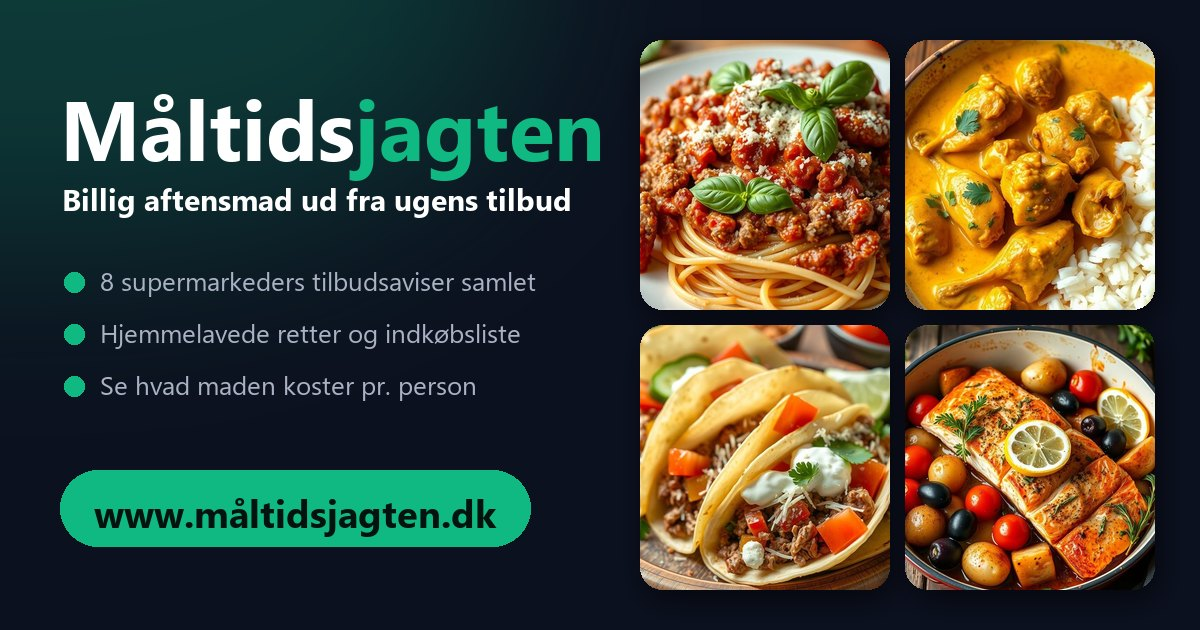
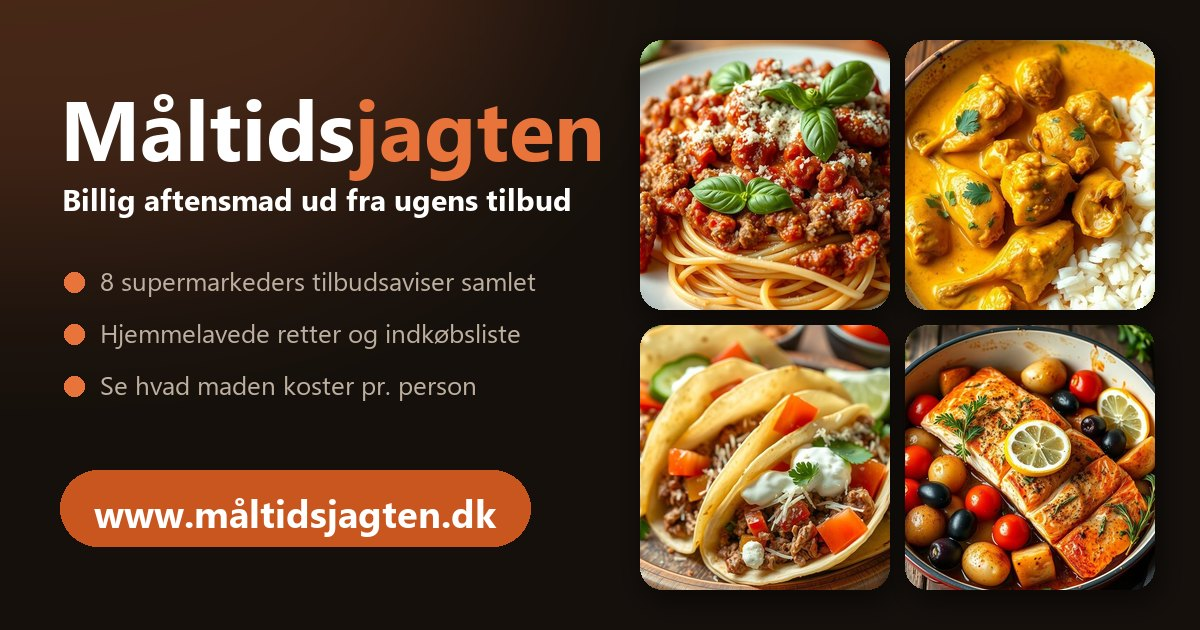
Nyt tema: varm moerk med tomat-orange (knapper, faner) og groen kun til billigt/tilbud; chat, login, admin, privatlivspolitik og delingsbillede i samme farver

diff --git a/index.html b/index.html
@@ -3,6 +3,7 @@
 <head>
 <meta charset="UTF-8">
 <meta name="viewport" content="width=device-width, initial-scale=1.0">
+<meta name="theme-color" content="#15100C">
 <title>Måltidsjagten — ugens retter ud fra tilbudsaviserne</title>
 <meta name="description" content="Måltidsjagten finder ugens bedste tilbud i Netto, MENY, Bilka, REMA 1000, Kvickly, SuperBrugsen, Lidl og 365discount og foreslår hjemmelavede retter, indkøbsliste og ugeplan.">
 <meta property="og:type" content="website">
@@ -16,14 +17,17 @@
 <link href="https://fonts.googleapis.com/css2?family=Inter:wght@300;400;500;600;700&display=swap" rel="stylesheet">
 <style>
 :root {
-  --bg: #0C1120;
-  --surface: #111827;
-  --surface-2: #1A2438;
-  --border: rgba(148,163,184,0.14);
+  --bg: #15100C;
+  --surface: #1F1813;
+  --surface-2: #2B211A;
+  --border: rgba(255,226,190,0.13);
   --text-1: #FFFFFF;
-  --text-2: #D4D4D4;
-  --text-3: #A0A0A0;
-  --emerald: #10B981;
+  --text-2: #E8DFD4;
+  --text-3: #B8AA9A;
+  --accent: #E8743B;        /* hovedfarve: tomat-orange (knapper, faner, markeringer) */
+  --accent-fill: #C9561E;   /* udfyldte knapper med hvid tekst (kontrast ≥ 4,5) */
+  --accent-dk: #AE4818;
+  --emerald: #10B981;       /* kun til 'billigt'/'på tilbud' */
   --emerald-dk: #059669;
   --amber: #F59E0B;
   --red: #EF4444;
@@ -39,12 +43,12 @@ button { font: inherit; cursor: pointer; }
 
 header.top { display: flex; align-items: center; justify-content: space-between; gap: 16px; flex-wrap: wrap; margin-bottom: 20px; }
 header.top h1 { font-size: 24px; font-weight: 700; }
-header.top h1 span { color: var(--emerald); }
+header.top h1 span { color: var(--accent); }
 .aviser { font-size: 13px; color: var(--text-3); }
 
 nav.trin { display: flex; gap: 8px; margin-bottom: 24px; flex-wrap: wrap; }
 nav.trin button { background: var(--surface); border: 1px solid var(--border); color: var(--text-3); padding: 10px 16px; border-radius: 999px; font-weight: 500; }
-nav.trin button.aktiv { background: var(--emerald); border-color: var(--emerald); color: #fff; }
+nav.trin button.aktiv { background: var(--accent-fill); border-color: var(--accent-fill); color: #fff; }
 nav.trin button:disabled { opacity: .4; cursor: not-allowed; }
 .nav-hoejre { margin-left: auto; display: flex; align-items: center; gap: 10px; }
 .sky-status { font-size: 12px; color: var(--text-3); }
@@ -63,17 +67,17 @@ nav.trin button.slet-valg:hover { border-color: #f87171; color: #fca5a5; }
 
 .filtre { display: flex; gap: 6px; flex-wrap: wrap; margin-bottom: 16px; }
 .chip { background: var(--surface); border: 1px solid var(--border); color: var(--text-2); padding: 6px 12px; border-radius: 999px; font-size: 13px; }
-.chip.aktiv { border-color: var(--emerald); color: var(--emerald); }
+.chip.aktiv { border-color: var(--accent); color: var(--accent); }
 
 .grid { display: grid; grid-template-columns: repeat(auto-fill, minmax(300px, 1fr)); gap: 14px; }
 .ret { background: var(--surface); border: 1px solid var(--border); border-radius: var(--radius); padding: 16px; cursor: pointer; transition: border-color .15s, transform .15s; position: relative; }
 .ret:hover { transform: translateY(-2px); }
-.bil { margin: -16px -16px 12px; aspect-ratio: 16 / 10; overflow: hidden; border-radius: var(--radius) var(--radius) 0 0; background: linear-gradient(135deg, #1A2438, #0C1120); position: relative; display: grid; place-items: center; }
+.bil { margin: -16px -16px 12px; aspect-ratio: 16 / 10; overflow: hidden; border-radius: var(--radius) var(--radius) 0 0; background: linear-gradient(135deg, var(--surface-2), var(--bg)); position: relative; display: grid; place-items: center; }
 .bil img { width: 100%; height: 100%; object-fit: cover; display: block; }
 .bil-ikon { font-size: 44px; opacity: .55; }
 .bil-maerke { position: absolute; left: 8px; bottom: 8px; font-size: 10px; letter-spacing: .03em; background: rgba(0,0,0,.55); color: #E5E7EB; padding: 2px 7px; border-radius: 6px; }
-.ret.valgt { border-color: var(--emerald); box-shadow: 0 0 0 1px var(--emerald) inset; }
-.ret.valgt::after { content: '✓'; position: absolute; top: 12px; right: 14px; background: var(--emerald); color: #fff; width: 24px; height: 24px; border-radius: 50%; display: grid; place-items: center; font-size: 14px; font-weight: 700; }
+.ret.valgt { border-color: var(--accent); box-shadow: 0 0 0 1px var(--accent) inset; }
+.ret.valgt::after { content: '✓'; position: absolute; top: 12px; right: 14px; background: var(--accent-fill); color: #fff; width: 24px; height: 24px; border-radius: 50%; display: grid; place-items: center; font-size: 14px; font-weight: 700; }
 .ret h3 { font-size: 16px; margin-bottom: 4px; padding-right: 30px; }
 .ret p { margin: 0 0 10px; font-size: 14px; color: var(--text-3); }
 .meta { display: flex; gap: 8px; flex-wrap: wrap; font-size: 12px; }
@@ -121,7 +125,7 @@ nav.trin button.slet-valg:hover { border-color: #f87171; color: #fca5a5; }
 .login-faner { display: flex; gap: 8px; margin: 16px 0; }
 #login-form { display: flex; flex-direction: column; gap: 10px; }
 #login-form input { background: var(--surface-2); border: 1px solid var(--border); border-radius: 10px; padding: 12px 14px; color: var(--text-1); font: inherit; font-size: 16px; }
-#login-form input:focus { outline: none; border-color: var(--emerald); }
+#login-form input:focus { outline: none; border-color: var(--accent); }
 #login-form .knap { margin-top: 4px; }
 #login-besked { min-height: 1.2em; font-size: 14px; margin: 12px 0 0; }
 #login-besked.ok { color: var(--emerald); }
@@ -138,10 +142,10 @@ button.link { background: none; border: 0; color: var(--text-3); text-decoration
 .ret.bruger-rest { border-color: rgba(245,158,11,.55); }
 .chip.rest-chip { border-color: rgba(245,158,11,.6); color: var(--amber); }
 .chip.rest-chip.aktiv { background: rgba(245,158,11,.15); }
-.hero { position: relative; border-radius: var(--radius); overflow: hidden; height: 280px; margin-bottom: 20px; background: #0C1120; border: 1px solid var(--border); }
+.hero { position: relative; border-radius: var(--radius); overflow: hidden; height: 280px; margin-bottom: 20px; background: var(--bg); border: 1px solid var(--border); }
 .hero-mosaik { position: absolute; inset: 0; display: grid; grid-template-columns: 1.15fr 1fr 1fr 1fr; gap: 3px; }
 .hero-mosaik img { width: 100%; height: 100%; object-fit: cover; display: block; }
-.hero::after { content: ''; position: absolute; inset: 0; background: linear-gradient(90deg, rgba(12,17,32,.96) 0%, rgba(12,17,32,.88) 32%, rgba(12,17,32,.35) 62%, rgba(12,17,32,0) 85%); }
+.hero::after { content: ''; position: absolute; inset: 0; background: linear-gradient(90deg, rgba(21,16,12,.96) 0%, rgba(21,16,12,.88) 32%, rgba(21,16,12,.35) 62%, rgba(21,16,12,0) 85%); }
 .hero-tekst { position: absolute; z-index: 1; left: 28px; top: 50%; transform: translateY(-50%); max-width: 520px; }
 .hero-tekst h2 { font-size: 30px; line-height: 1.15; margin-bottom: 10px; }
 .hero-tekst p { margin: 0; font-size: 16px; color: #E5E7EB; }
@@ -152,30 +156,30 @@ button.link { background: none; border: 0; color: var(--text-3); text-decoration
 .niveauer { display: grid; grid-template-columns: repeat(auto-fit, minmax(190px, 1fr)); gap: 10px; margin-bottom: 14px; }
 .niveau { background: var(--surface); border: 2px solid var(--border); border-radius: 12px; padding: 12px 14px; text-align: left; color: var(--text-3); display: grid; grid-template-columns: auto 1fr; column-gap: 10px; align-items: center; }
 .ikon-svg { width: 1.15em; height: 1.15em; vertical-align: -0.2em; flex: none; }
-.niveau .ikon { display: grid; place-items: center; width: 44px; height: 44px; border-radius: 50%; background: rgba(16,185,129,.16); color: var(--emerald); font-size: 22px; }
+.niveau .ikon { display: grid; place-items: center; width: 44px; height: 44px; border-radius: 50%; background: rgba(232,116,59,.17); color: var(--accent); font-size: 22px; }
 .niveau .ikon .ikon-svg { width: 24px; height: 24px; vertical-align: 0; }
 .koek-bil { width: 22px; height: 22px; border-radius: 50%; object-fit: cover; vertical-align: middle; }
 .koek-bil.lille { width: 18px; height: 18px; margin: -2px 4px -2px -3px; }
 .chip.koekken-knap { display: inline-flex; align-items: center; gap: 9px; padding: 5px 14px 5px 5px; font-size: 14px; font-weight: 500; transition: border-color .15s, background .15s, transform .15s; }
 .chip.koekken-knap .koek-bil { width: 34px; height: 34px; border: 2px solid var(--border); margin: 0; flex: none; }
 .chip.koekken-knap small { margin-left: 0; }
-.chip.koekken-knap:hover { border-color: rgba(16,185,129,.6); transform: translateY(-1px); }
-.chip.koekken-knap.aktiv { background: rgba(16,185,129,.12); border-color: var(--emerald); }
-.chip.koekken-knap.aktiv .koek-bil { border-color: var(--emerald); }
+.chip.koekken-knap:hover { border-color: rgba(232,116,59,.6); transform: translateY(-1px); }
+.chip.koekken-knap.aktiv { background: rgba(232,116,59,.13); border-color: var(--accent); }
+.chip.koekken-knap.aktiv .koek-bil { border-color: var(--accent); }
 .niveau { position: relative; overflow: hidden; isolation: isolate; }
-.niveau::before { content: ''; position: absolute; inset: 0; z-index: -1; background: linear-gradient(90deg, rgba(19,28,46,.95) 0%, rgba(19,28,46,.78) 55%, rgba(19,28,46,.5) 100%), var(--bg) center / cover; transition: transform .3s; }
+.niveau::before { content: ''; position: absolute; inset: 0; z-index: -1; background: linear-gradient(90deg, rgba(31,24,19,.95) 0%, rgba(31,24,19,.78) 55%, rgba(31,24,19,.5) 100%), var(--bg) center / cover; transition: transform .3s; }
 .niveau:hover::before { transform: scale(1.05); }
 .niveau .ikon { grid-row: span 2; font-size: 26px; }
 .niveau strong { color: var(--text-1); font-size: 15px; }
 .niveau small { font-size: 12px; }
-.niveau.aktiv { border-color: var(--emerald); background: var(--surface-2); }
+.niveau.aktiv { border-color: var(--accent); background: var(--surface-2); }
 .tilbudsliste { margin-top: 10px; font-size: 12px; color: var(--text-3); }
 .tilbudsliste b { color: var(--emerald); font-weight: 600; }
 
-.bund { position: fixed; left: 0; right: 0; bottom: 0; background: rgba(12,17,32,.95); backdrop-filter: blur(8px); border-top: 1px solid var(--border); padding: 14px 20px; }
+.bund { position: fixed; left: 0; right: 0; bottom: 0; background: rgba(21,16,12,.95); backdrop-filter: blur(8px); border-top: 1px solid var(--border); padding: 14px 20px; }
 .bund .wrap { padding: 0; display: flex; justify-content: space-between; align-items: center; gap: 12px; }
-.knap { background: var(--emerald); color: #fff; border: 0; padding: 12px 20px; border-radius: 10px; font-weight: 600; }
-.knap:hover { background: var(--emerald-dk); }
+.knap { background: var(--accent-fill); color: #fff; border: 0; padding: 12px 20px; border-radius: 10px; font-weight: 600; }
+.knap:hover { background: var(--accent-dk); }
 .knap:disabled { opacity: .4; cursor: not-allowed; }
 .knap.sekundaer { background: var(--surface-2); color: var(--text-1); }
 
@@ -183,14 +187,14 @@ button.link { background: none; border: 0; color: var(--text-3); text-decoration
 .panel h2 { font-size: 17px; margin-bottom: 12px; }
 .valg { display: flex; gap: 10px; flex-wrap: wrap; align-items: center; }
 .butikvalg { flex: 1; min-width: 200px; background: var(--surface-2); border: 2px solid transparent; border-radius: 12px; padding: 14px; text-align: left; color: var(--text-2); }
-.butikvalg.aktiv { border-color: var(--emerald); }
+.butikvalg.aktiv { border-color: var(--accent); }
 .butikvalg strong { display: block; color: var(--text-1); font-size: 16px; }
 .personer { display: flex; align-items: center; gap: 8px; }
 .personer button { width: 34px; height: 34px; border-radius: 8px; border: 1px solid var(--border); background: var(--surface-2); color: var(--text-1); }
 
 .vare { display: flex; gap: 12px; align-items: flex-start; padding: 10px 0; border-bottom: 1px solid var(--border); }
 .vare:last-child { border-bottom: 0; }
-.vare input { margin-top: 4px; width: 18px; height: 18px; accent-color: var(--emerald); flex-shrink: 0; }
+.vare input { margin-top: 4px; width: 18px; height: 18px; accent-color: var(--accent); flex-shrink: 0; }
 .vare img { width: 52px; height: 52px; object-fit: contain; background: #fff; border-radius: 8px; flex-shrink: 0; }
 .vare .tekst { flex: 1; }
 .vare .navn { color: var(--text-1); font-weight: 500; }
@@ -201,7 +205,7 @@ button.link { background: none; border: 0; color: var(--text-3); text-decoration
 .dag { background: var(--surface); border: 1px solid var(--border); border-radius: var(--radius); margin-bottom: 12px; overflow: hidden; }
 .dag summary { list-style: none; padding: 16px 18px; cursor: pointer; display: flex; justify-content: space-between; align-items: center; gap: 12px; }
 .dag summary::-webkit-details-marker { display: none; }
-.dag .dagnavn { font-size: 12px; text-transform: uppercase; letter-spacing: .08em; color: var(--emerald); font-weight: 600; }
+.dag .dagnavn { font-size: 12px; text-transform: uppercase; letter-spacing: .08em; color: var(--accent); font-weight: 600; }
 .dag .retnavn { color: var(--text-1); font-weight: 600; font-size: 16px; }
 .dag select { background: var(--surface-2); color: var(--text-1); border: 1px solid var(--border); border-radius: 8px; padding: 6px 8px; max-width: 200px; }
 .opskrift { padding: 0 18px 18px; display: grid; grid-template-columns: 1fr 2fr; gap: 24px; }
@@ -217,7 +221,7 @@ button.link { background: none; border: 0; color: var(--text-3); text-decoration
 .opskrift-bil span { position: absolute; left: 8px; bottom: 8px; font-size: 10px; background: rgba(0,0,0,.55); color: #E5E7EB; padding: 2px 7px; border-radius: 6px; }
 
 .status { text-align: center; padding: 60px 20px; color: var(--text-3); }
-.spinner { width: 36px; height: 36px; border: 3px solid var(--surface-2); border-top-color: var(--emerald); border-radius: 50%; animation: spin 1s linear infinite; margin: 0 auto 16px; }
+.spinner { width: 36px; height: 36px; border: 3px solid var(--surface-2); border-top-color: var(--accent); border-radius: 50%; animation: spin 1s linear infinite; margin: 0 auto 16px; }
 @keyframes spin { to { transform: rotate(360deg); } }
 .fejl { color: var(--red); }
 .skjult { display: none !important; }
@@ -226,19 +230,19 @@ button.link { background: none; border: 0; color: var(--text-3); text-decoration
 .sektionshoved { display: flex; justify-content: space-between; align-items: center; gap: 10px; margin-bottom: 8px; }
 .sektionshoved h2 { margin: 0; }
 .vare { cursor: pointer; border-radius: 8px; }
-.vare.valgt { background: rgba(16,185,129,.07); }
+.vare.valgt { background: rgba(232,116,59,.08); }
 .vare.valgt .navn { color: var(--text-1); }
 .soegefelt { display: flex; gap: 8px; }
 .soegefelt input { flex: 1; background: var(--surface-2); border: 1px solid var(--border); border-radius: 10px; padding: 12px 14px; color: var(--text-1); font: inherit; font-size: 16px; }
-.soegefelt input:focus { outline: none; border-color: var(--emerald); }
+.soegefelt input:focus { outline: none; border-color: var(--accent); }
 .tilfoej-top { position: sticky; top: 0; z-index: 5; box-shadow: 0 8px 20px rgba(0,0,0,.35); }
 .ekstra-valgte { margin-top: 12px; display: flex; flex-wrap: wrap; gap: 6px; align-items: center; font-size: 14px; }
-.chip.valgt-chip { border-color: var(--emerald); color: var(--emerald); }
+.chip.valgt-chip { border-color: var(--accent); color: var(--accent); }
 .katalog-chips { display: flex; flex-wrap: wrap; gap: 6px; }
-.katalog-chips .chip.aktiv { background: rgba(16,185,129,.12); }
-.fremskridt { color: var(--emerald); font-weight: 600; }
+.katalog-chips .chip.aktiv { background: rgba(232,116,59,.13); }
+.fremskridt { color: var(--accent); font-weight: 600; }
 .bar { height: 6px; background: var(--surface-2); border-radius: 99px; margin-top: 10px; overflow: hidden; }
-.bar div { height: 100%; background: var(--emerald); transition: width .2s; }
+.bar div { height: 100%; background: var(--accent); transition: width .2s; }
 </style>
 </head>
 <body>

diff --git a/feedback.js b/feedback.js
@@ -13,28 +13,28 @@
 
   const css = `
   #fb-knap { position: fixed; right: 18px; bottom: 18px; z-index: 60; width: 54px; height: 54px; border-radius: 50%; border: 0; cursor: pointer;
-    background: #10B981; color: #04130d; font-size: 24px; box-shadow: 0 6px 20px rgba(0,0,0,.45); }
+    background: #C9561E; color: #fff; font-size: 24px; box-shadow: 0 6px 20px rgba(0,0,0,.45); }
   #fb-knap:hover { filter: brightness(1.1); }
   body.har-bund #fb-knap { bottom: 86px; }
   #fb-panel { position: fixed; right: 18px; bottom: 84px; z-index: 61; width: min(360px, calc(100vw - 24px)); max-height: min(520px, calc(100vh - 110px));
-    display: none; flex-direction: column; background: #131c2e; border: 1px solid #2a3650; border-radius: 16px; box-shadow: 0 12px 40px rgba(0,0,0,.55); overflow: hidden; }
+    display: none; flex-direction: column; background: #1F1813; border: 1px solid #3A2D22; border-radius: 16px; box-shadow: 0 12px 40px rgba(0,0,0,.55); overflow: hidden; }
   #fb-panel.aaben { display: flex; }
-  #fb-top { padding: 12px 14px; background: #1A2438; border-bottom: 1px solid #2a3650; display: flex; align-items: center; justify-content: space-between; color: #fff; font-weight: 600; font-size: 14px; }
+  #fb-top { padding: 12px 14px; background: #2B211A; border-bottom: 1px solid #3A2D22; display: flex; align-items: center; justify-content: space-between; color: #fff; font-weight: 600; font-size: 14px; }
   #fb-top button { background: none; border: 0; color: #A0A0A0; font-size: 20px; cursor: pointer; line-height: 1; }
   #fb-log { flex: 1; overflow-y: auto; padding: 12px; display: flex; flex-direction: column; gap: 8px; font-size: 14px; }
   .fb-b { max-width: 88%; padding: 8px 12px; border-radius: 14px; line-height: 1.4; white-space: pre-wrap; word-wrap: break-word; }
-  .fb-bot { background: #1f2b44; color: #E5E7EB; align-self: flex-start; border-bottom-left-radius: 4px; }
-  .fb-dig { background: #10B981; color: #04130d; align-self: flex-end; border-bottom-right-radius: 4px; }
+  .fb-bot { background: #2B211A; color: #E5E7EB; align-self: flex-start; border-bottom-left-radius: 4px; }
+  .fb-dig { background: #C9561E; color: #fff; align-self: flex-end; border-bottom-right-radius: 4px; }
   .fb-valg { display: flex; flex-wrap: wrap; gap: 6px; }
-  .fb-valg button { background: #1A2438; border: 1px solid #2f3d5c; color: #D4D4D4; padding: 6px 10px; border-radius: 999px; font-size: 13px; cursor: pointer; }
-  .fb-valg button:hover { border-color: #10B981; color: #fff; }
-  #fb-form { display: none; gap: 8px; padding: 10px; border-top: 1px solid #2a3650; background: #101828; }
+  .fb-valg button { background: #2B211A; border: 1px solid #43342A; color: #D4D4D4; padding: 6px 10px; border-radius: 999px; font-size: 13px; cursor: pointer; }
+  .fb-valg button:hover { border-color: #E8743B; color: #fff; }
+  #fb-form { display: none; gap: 8px; padding: 10px; border-top: 1px solid #3A2D22; background: #18120E; }
   #fb-form.aaben { display: flex; }
-  #fb-felt { flex: 1; resize: none; background: #1A2438; color: #fff; border: 1px solid #2f3d5c; border-radius: 10px; padding: 8px 10px; font: inherit; font-size: 16px; max-height: 110px; }
-  #fb-send { background: #10B981; border: 0; color: #04130d; font-weight: 600; border-radius: 10px; padding: 0 14px; cursor: pointer; }
+  #fb-felt { flex: 1; resize: none; background: #2B211A; color: #fff; border: 1px solid #43342A; border-radius: 10px; padding: 8px 10px; font: inherit; font-size: 16px; max-height: 110px; }
+  #fb-send { background: #C9561E; border: 0; color: #fff; font-weight: 600; border-radius: 10px; padding: 0 14px; cursor: pointer; }
   #fb-send:disabled { opacity: .5; }
-  #fb-fod { padding: 0 12px 10px; font-size: 11px; color: #8a93a6; background: #101828; }
-  #fb-fod a { color: #10B981; }
+  #fb-fod { padding: 0 12px 10px; font-size: 11px; color: #A99A89; background: #18120E; }
+  #fb-fod a { color: #E8743B; }
   .fb-hp { position: absolute; left: -9999px; width: 1px; height: 1px; opacity: 0; }
   `;
   document.head.appendChild(Object.assign(document.createElement('style'), { textContent: css }));

diff --git a/admin.html b/admin.html
@@ -6,7 +6,7 @@
 <meta name="robots" content="noindex, nofollow">
 <title>Admin — Måltidsjagten</title>
 <style>
-:root { --bg: #0C1120; --surface: #131c2e; --surface-2: #1A2438; --border: #2a3650; --text-1: #fff; --text-2: #D4D4D4; --text-3: #A0A0A0; --accent: #10B981; --varsel: #F59E0B; }
+:root { --bg: #15100C; --surface: #1F1813; --surface-2: #2B211A; --border: #3A2D22; --text-1: #fff; --text-2: #D4D4D4; --text-3: #A0A0A0; --accent: #E8743B; --varsel: #F59E0B; }
 * { box-sizing: border-box; }
 body { margin: 0; font-family: Inter, system-ui, sans-serif; background: var(--bg); color: var(--text-2); line-height: 1.5; }
 main { max-width: 960px; margin: 0 auto; padding: 24px 16px 80px; }
@@ -15,7 +15,7 @@ a { color: var(--accent); }
 .top { display: flex; justify-content: space-between; align-items: center; gap: 12px; flex-wrap: wrap; margin-bottom: 8px; }
 button, .knap { background: var(--surface-2); border: 1px solid var(--border); color: var(--text-2); padding: 7px 12px; border-radius: 10px; font: inherit; font-size: 13px; cursor: pointer; text-decoration: none; }
 button:hover, .knap:hover { border-color: var(--accent); color: #fff; }
-button.aktiv { background: var(--accent); color: #04130d; border-color: var(--accent); }
+button.aktiv { background: var(--accent); color: #fff; border-color: var(--accent); }
 .kort { display: grid; grid-template-columns: repeat(auto-fit, minmax(150px, 1fr)); gap: 12px; }
 .tal { background: var(--surface); border: 1px solid var(--border); border-radius: 14px; padding: 14px 16px; }
 .tal b { display: block; font-size: 28px; color: var(--text-1); line-height: 1.1; }
@@ -37,7 +37,7 @@ button.aktiv { background: var(--accent); color: #04130d; border-color: var(--ac
 .fejl { color: #f87171; } .ok { color: var(--accent); }
 form#login { display: grid; gap: 10px; max-width: 340px; margin: 60px auto; }
 form#login input { background: var(--surface-2); border: 1px solid var(--border); border-radius: 10px; padding: 12px 14px; color: #fff; font: inherit; font-size: 16px; }
-form#login .primaer { background: var(--accent); color: #04130d; font-weight: 600; border: 0; padding: 12px; }
+form#login .primaer { background: var(--accent); color: #fff; font-weight: 600; border: 0; padding: 12px; }
 .skjult { display: none !important; }
 </style>
 </head>

diff --git a/privatlivspolitik.html b/privatlivspolitik.html
@@ -5,10 +5,10 @@
 <meta name="viewport" content="width=device-width, initial-scale=1.0">
 <title>Privatlivspolitik — Måltidsjagten</title>
 <style>
-body { font-family: Inter, system-ui, sans-serif; background: #0C1120; color: #D4D4D4; line-height: 1.65; margin: 0; }
+body { font-family: Inter, system-ui, sans-serif; background: #15100C; color: #D4D4D4; line-height: 1.65; margin: 0; }
 main { max-width: 720px; margin: 0 auto; padding: 32px 20px 80px; }
 h1, h2 { color: #fff; } h2 { margin-top: 32px; font-size: 18px; }
-a { color: #10B981; } .udkast { background: #1A2438; border-left: 3px solid #F59E0B; padding: 12px 16px; border-radius: 6px; }
+a { color: #E8743B; } .udkast { background: #2B211A; border-left: 3px solid #F59E0B; padding: 12px 16px; border-radius: 6px; }
 </style>
 </head>
 <body>

diff --git a/auth.js b/auth.js
@@ -59,7 +59,7 @@ function sikrLoginVindue() {
     #login-vindue .login-fordele { margin: 8px 0 4px; padding-left: 18px; font-size: 14px; color: var(--text-2, #D4D4D4); }
     #login-vindue .login-fordele li { margin: 3px 0; }
     #login-vindue .login-fod { margin-top: 12px; font-size: 12px; color: var(--text-3, #A0A0A0); }
-    #login-vindue .login-fod a { color: var(--emerald, #10B981); }`;
+    #login-vindue .login-fod a { color: var(--accent, #E8743B); }`;
   document.head.appendChild(st);
   const v = document.createElement('div');
   v.id = 'login-vindue';
